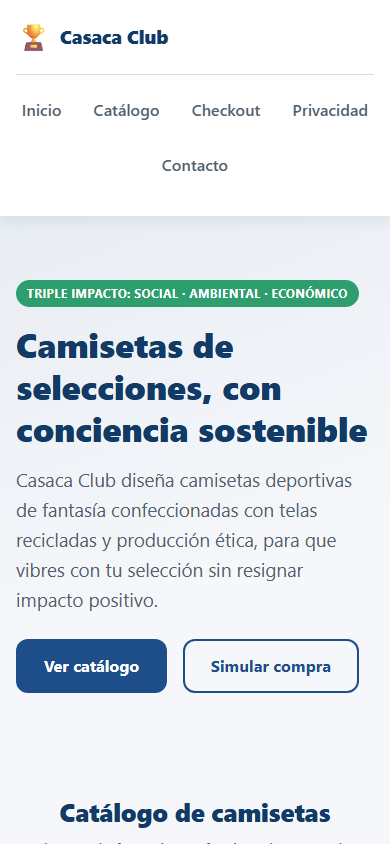
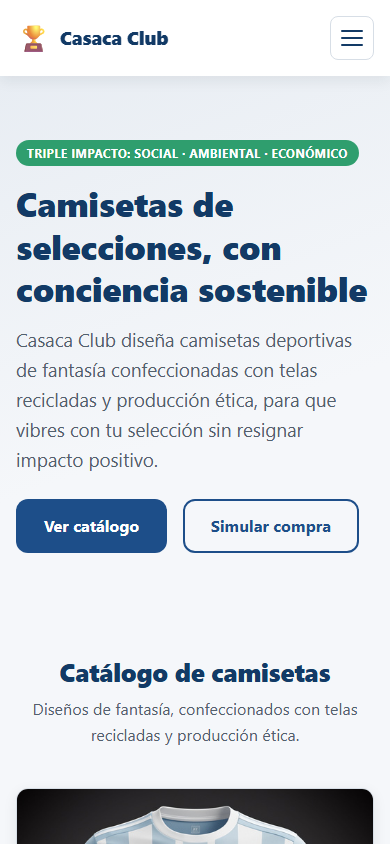
feat: add hamburger menu for mobile navigation
- Toggle button shown below 768px; nav collapses into a vertical list
- Progressive enhancement: without JS the menu stays visible as before
- Closes on link click and Escape; aria-expanded/aria-label kept in sync
- Refresh responsive screenshots and report (mobile header 215px -> 76px)

Changed region(s): [[0.0, 0.0308, 0.9846, 0.8934], [0.0308, 0.9242, 0.9846, 1.0], [0.8923, 0.5853, 0.9231, 0.6777]]

diff --git a/casaca-club-sprint2/css/style.css b/casaca-club-sprint2/css/style.css
@@ -201,10 +201,75 @@ h1, h2, h3 {
   font-size: 1.4em;
 }
 
-/* En mobile la lista de navegación reflowea debajo de la marca (sin JS) */
+/* En mobile la lista de navegación reflowea debajo de la marca */
 .navbar__nav {
   flex-basis: 100%;
   order: 3;
+}
+
+/* Botón hamburguesa: sólo existe visualmente cuando hay JavaScript (clase .js
+   en <html>, la agrega js/main.js). Sin JS el menú queda siempre visible. */
+.navbar__toggle {
+  display: none;
+  flex-direction: column;
+  justify-content: center;
+  gap: 5px;
+  width: 44px;
+  height: 44px;
+  padding: 10px;
+  background: transparent;
+  border: 1px solid var(--color-borde);
+  border-radius: 0.5rem;
+  cursor: pointer;
+}
+
+.navbar__toggle-barra {
+  display: block;
+  height: 2px;
+  background-color: var(--color-primario-oscuro);
+  border-radius: 2px;
+  transition: transform var(--transicion), opacity var(--transicion);
+}
+
+.js .navbar__toggle {
+  display: flex;
+}
+
+.js .navbar__nav {
+  display: none;
+}
+
+.js .navbar__nav--abierto {
+  display: block;
+}
+
+/* Menú desplegado en mobile: lista vertical con áreas de toque amplias */
+.js .navbar__lista {
+  flex-direction: column;
+  gap: 0;
+  padding-block: var(--espacio-xs);
+}
+
+.js .navbar__link {
+  padding: 0.75rem 0.25rem;
+  border-bottom: 1px solid var(--color-borde);
+}
+
+.js .navbar__lista li:last-child .navbar__link {
+  border-bottom: none;
+}
+
+/* Las tres barras se transforman en una "X" con el menú abierto */
+.navbar__toggle[aria-expanded="true"] .navbar__toggle-barra:nth-child(1) {
+  transform: translateY(7px) rotate(45deg);
+}
+
+.navbar__toggle[aria-expanded="true"] .navbar__toggle-barra:nth-child(2) {
+  opacity: 0;
+}
+
+.navbar__toggle[aria-expanded="true"] .navbar__toggle-barra:nth-child(3) {
+  transform: translateY(-7px) rotate(-45deg);
 }
 
 .navbar__lista {
@@ -607,14 +672,28 @@ h1, h2, h3 {
 
 /* --- Tablets (~768px en adelante) --- */
 @media (min-width: 768px) {
-  .navbar__nav {
+  .navbar__nav,
+  .js .navbar__nav {
+    display: block;
     flex-basis: auto;
     order: 2;
   }
 
-  .navbar__lista {
+  .js .navbar__toggle {
+    display: none;
+  }
+
+  .navbar__lista,
+  .js .navbar__lista {
+    flex-direction: row;
+    gap: var(--espacio-sm) var(--espacio-md);
     padding-block: 0;
     border-top: none;
+  }
+
+  .js .navbar__link {
+    padding: 0.4rem 0.25rem;
+    border-bottom: none;
   }
 
   .catalogo__grid {

diff --git a/casaca-club-sprint2/js/main.js b/casaca-club-sprint2/js/main.js
@@ -1,12 +1,53 @@
 /* =====================================================================
    CASACA CLUB - SCRIPT PRINCIPAL (Sprint 2)
    JavaScript puro, sin librerías. Mejora progresiva: el sitio funciona
-   sin JS; este script sólo agrega comodidades al checkout simulado.
+   sin JS; este script agrega el menú hamburguesa en mobile y
+   comodidades al checkout simulado.
    Privacidad: los datos del formulario NO se envían ni se almacenan
    (ver sección "Política de Privacidad" del index.html).
    ===================================================================== */
 
+// Marca que hay JS disponible: el CSS sólo oculta el menú mobile con esta clase
+document.documentElement.classList.add("js");
+
 document.addEventListener("DOMContentLoaded", () => {
+  iniciarMenu();
+  iniciarCheckout();
+});
+
+/* Menú hamburguesa: abre y cierra la navegación en pantallas chicas */
+function iniciarMenu() {
+  const boton = document.querySelector(".navbar__toggle");
+  const menu = document.getElementById("menu-principal");
+
+  if (!boton || !menu) return;
+
+  const alternar = (abrir) => {
+    boton.setAttribute("aria-expanded", String(abrir));
+    boton.setAttribute("aria-label", abrir ? "Cerrar menú" : "Abrir menú");
+    menu.classList.toggle("navbar__nav--abierto", abrir);
+  };
+
+  boton.addEventListener("click", () => {
+    alternar(boton.getAttribute("aria-expanded") !== "true");
+  });
+
+  // Al elegir una sección, el menú se cierra para dejar ver el contenido
+  menu.querySelectorAll("a").forEach((enlace) => {
+    enlace.addEventListener("click", () => alternar(false));
+  });
+
+  // Escape cierra el menú y devuelve el foco al botón
+  document.addEventListener("keydown", (evento) => {
+    if (evento.key === "Escape" && boton.getAttribute("aria-expanded") === "true") {
+      alternar(false);
+      boton.focus();
+    }
+  });
+}
+
+/* Checkout simulado: preselección de producto, validación y resumen */
+function iniciarCheckout() {
   const formulario = document.querySelector(".formulario");
   const selectProducto = document.getElementById("producto");
   const inputCantidad = document.getElementById("cantidad");
@@ -66,4 +107,4 @@ document.addEventListener("DOMContentLoaded", () => {
     mensaje.hidden = true;
     mensaje.textContent = "";
   }
-});
+}

diff --git a/casaca-club-sprint2/index.html b/casaca-club-sprint2/index.html
@@ -15,7 +15,12 @@
         <span class="navbar__logo" aria-hidden="true">🏆</span>
         <span>Casaca <strong>Club</strong></span>
       </a>
-      <nav class="navbar__nav" aria-label="Navegación principal">
+      <button type="button" class="navbar__toggle" aria-controls="menu-principal" aria-expanded="false" aria-label="Abrir menú">
+        <span class="navbar__toggle-barra" aria-hidden="true"></span>
+        <span class="navbar__toggle-barra" aria-hidden="true"></span>
+        <span class="navbar__toggle-barra" aria-hidden="true"></span>
+      </button>
+      <nav class="navbar__nav" id="menu-principal" aria-label="Navegación principal">
         <ul class="navbar__lista">
           <li><a href="#inicio" class="navbar__link">Inicio</a></li>
           <li><a href="#catalogo" class="navbar__link">Catálogo</a></li>

diff --git a/SprintsDocs/capturas-responsive/README.md b/SprintsDocs/capturas-responsive/README.md
@@ -6,7 +6,7 @@ El sitio de Casaca Club se adapta correctamente a móvil, tablet y escritorio: e
 
 ## Alcance
 
-- **Sitio probado:** `casaca-club-sprint2/index.html` (rama `sprint_2`, commit `cb81df5`).
+- **Sitio probado:** `casaca-club-sprint2/index.html` (rama `sprint_2`, con el menú hamburguesa agregado tras la primera ronda de pruebas).
 - **Secciones revisadas:** encabezado y menú, portada (hero), catálogo de camisetas, formulario de checkout, Política de Privacidad y footer.
 - **Fuera del alcance:** navegadores distintos de Chrome, pruebas con usuarios reales y rendimiento de carga.
 
@@ -25,20 +25,25 @@ Por cada dispositivo hay dos capturas:
 - **Vista inicial:** lo que el usuario ve al abrir la página, sin hacer scroll.
 - **Página completa:** todo el sitio de arriba abajo, recortado al final del footer.
 
+En móvil se agregó una tercera captura con el menú hamburguesa abierto.
+
 **Corrección aplicada en móvil:** Chrome headless en Windows no permite ventanas de menos de unos 500 px de ancho, por lo que la primera captura de 390 px salió cortada a la derecha (el sitio no tenía ese problema). Para obtener un ancho real de 390 px, el sitio se cargó dentro de un `iframe` de ese ancho exacto y la imagen se recortó con Python (Pillow).
 
 ## Resultados en móvil (390 px)
 
-En móvil todo el contenido se apila en una sola columna y entra en el ancho de la pantalla. La página completa mide 8.417 px de alto.
+En móvil todo el contenido se apila en una sola columna y entra en el ancho de la pantalla. La página completa mide 8.277 px de alto.
 
 ![Móvil 390 px – vista inicial](movil-vista-inicial.png)
 
-- **Encabezado:** el logo queda arriba y el menú pasa a una segunda fila. Los 5 enlaces se reparten en dos renglones gracias a `flex-wrap`, sin cortarse.
+- **Encabezado:** logo a la izquierda y botón hamburguesa (44 × 44 px) a la derecha. El encabezado fijo ocupa unos 76 px (9 % de la pantalla).
+- **Menú abierto:** al tocar el botón, los 5 enlaces se despliegan en una lista vertical con áreas de toque amplias y el ícono pasa a una "X". El menú se cierra al elegir una sección o con la tecla Escape.
 - **Portada:** el título baja a 3 líneas con tipografía fluida (`clamp()`). Los dos botones entran lado a lado.
 - **Catálogo:** 1 camiseta por fila (`minmax(260px, 1fr)`). Las fotos son cuadradas y se ven completas.
 - **Checkout:** todos los campos ocupan el ancho completo, uno debajo del otro.
 - **Privacidad:** las 6 cláusulas en una sola columna.
 - **Footer:** los bloques de marca, enlaces, contacto y licencia se apilan.
+
+![Móvil 390 px – menú abierto](movil-menu-abierto.png)
 
 Página completa: [`movil-pagina-completa.png`](movil-pagina-completa.png)
 
@@ -48,7 +53,7 @@ Desde 768 px el menú sube a la línea del logo y el catálogo, el formulario y 
 
 ![Tablet 768 px – vista inicial](tablet-vista-inicial.png)
 
-- **Encabezado:** logo a la izquierda y menú a la derecha en una sola fila (`order` y `flex-basis: auto`).
+- **Encabezado:** el botón hamburguesa se oculta y el menú vuelve a mostrarse completo, a la derecha del logo en una sola fila (`order` y `flex-basis: auto`).
 - **Portada:** el título baja a 2 líneas y los botones no se parten (`flex-wrap: nowrap`).
 - **Catálogo:** 2 camisetas por fila (`minmax(280px, 1fr)`), 3 filas en total.
 - **Checkout:** nombre y correo lado a lado; lo mismo camiseta y cantidad.
@@ -76,7 +81,7 @@ Página completa: [`escritorio-pagina-completa.png`](escritorio-pagina-completa.
 
 | Sección | Técnica CSS | Móvil (390 px) | Tablet (768 px) | Escritorio (1440 px) | Resultado |
 | --- | --- | --- | --- | --- | --- |
-| Encabezado y menú | Flexbox | Menú en 2da fila, 2 renglones | Logo y menú en 1 fila | Logo y menú en 1 fila | Correcto |
+| Encabezado y menú | Flexbox + JS | Botón hamburguesa, lista vertical al abrir | Logo y menú en 1 fila | Logo y menú en 1 fila | Correcto |
 | Portada (hero) | Flexbox + `clamp()` | Título en 3 líneas | Título en 2 líneas | Título en 2 líneas, más aire | Correcto |
 | Catálogo | CSS Grid `auto-fit` | 1 columna | 2 columnas | 3 columnas | Correcto |
 | Checkout | Flexbox | Campos apilados | Campos de a pares | Campos de a pares, 760 px máx. | Correcto |
@@ -87,11 +92,12 @@ Página completa: [`escritorio-pagina-completa.png`](escritorio-pagina-completa.
 
 La prueba se considera **aprobada**: el sitio cumple la consigna de diseño adaptable con Flexbox y CSS Grid en los tres dispositivos, sin frameworks externos. No se detectaron errores de maquetación.
 
+**Mejora ya aplicada:** en la primera ronda el encabezado fijo ocupaba unos 215 px de 844 en móvil (25 % de la pantalla) porque el menú usaba dos renglones. Se reemplazó por un menú hamburguesa y ahora ocupa unos 76 px. Sin JavaScript el menú sigue visible como antes (mejora progresiva).
+
 **Observaciones de usabilidad para próximos sprints:**
 
 | Observación | Dónde | Mejora propuesta |
 | --- | --- | --- |
-| El encabezado fijo ocupa unos 215 px de 844 (25 % de la pantalla) porque el menú usa dos renglones. | Móvil | Menú desplegable con botón "hamburguesa". |
 | La foto de espalda aparece al pasar el mouse; en pantallas táctiles sólo se ve al tocar la tarjeta. | Móvil y tablet | Agregar un botón o indicador visible de "Ver espalda". |
 | En tablet, el bloque de licencia del footer queda solo en una segunda fila. | Tablet | Footer en grilla de 2 × 2 entre 768 y 1023 px. |
 
